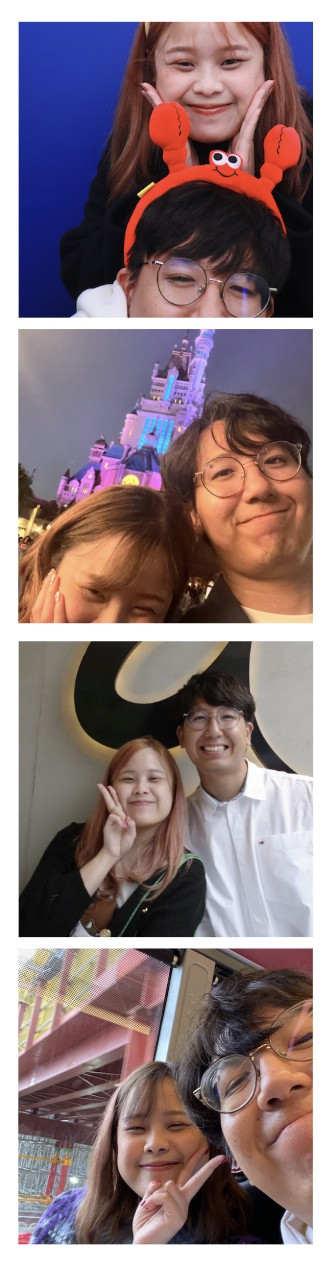
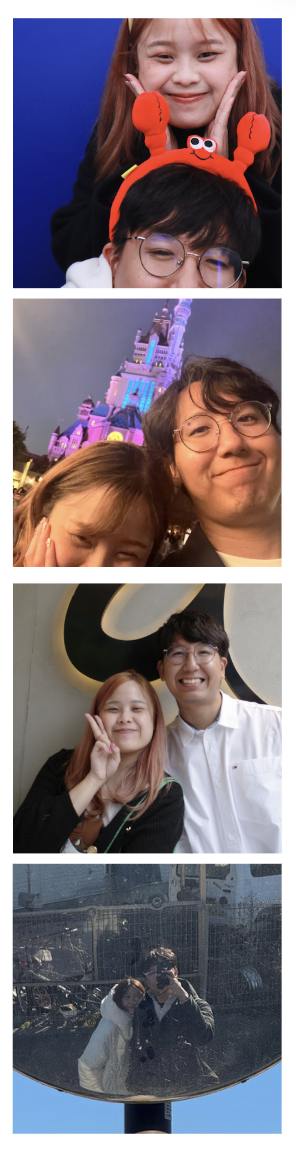
feat: update invitation page with new image assets and text adjustments
Replaced image links with versioned URLs for cache busting. Adjusted text for item cards, including updated rarity descriptions and flavor text. Enhanced styling for the invitation section with added margins for better spacing.

diff --git a/site/index.html b/site/index.html
@@ -22,17 +22,17 @@
   <section class="panel">
     <h1 class="script names">Oum &amp; Non</h1>
     <p class="line">ARE GETTING MARRIED</p>
-    <p class="script lead">and you are</p>
-
+    
     <div class="envelope" title="Open it again">
-      <img class="env-back" src="assets/landing/envelope-back.png" alt="" width="1219" height="1476">
-      <a class="pop pop--strip1" href="assets/landing/photo-strip-1.jpg" data-item="strip1" aria-label="View the first photo strip" style="--rot:-12deg;--ox:90%;--oy:45%;--delay:0ms"><img src="assets/landing/photo-strip-1.jpg" alt="" width="332" height="1268"></a>
-      <a class="pop pop--strip2" href="assets/landing/photo-strip-2.jpg" data-item="strip2" aria-label="View the second photo strip" style="--rot:12deg;--ox:-90%;--oy:45%;--delay:90ms"><img src="assets/landing/photo-strip-2.jpg" alt="" width="332" height="1268"></a>
-      <a class="pop pop--cats"   href="assets/landing/cat_heads.png"     data-item="cats"   aria-label="View the cats" style="--rot:5deg;--ox:0%;--oy:60%;--delay:200ms"><img src="assets/landing/cat_heads.png" alt="" width="1040" height="952"></a>
-      <a class="pop pop--ticket" href="assets/landing/ticket.png"        data-item="ticket" aria-label="View the ticket" style="--rot:-4deg;--ox:0%;--oy:70%;--delay:330ms"><img src="assets/landing/ticket.png" alt="" width="1241" height="1750"></a>
-      <img class="env-front" src="assets/landing/envelope-front.png" alt="" width="1219" height="1476">
+      <img class="env-back" src="assets/landing/envelope-back.png?t=1233" alt="" width="1219" height="1476">
+      <a class="pop pop--strip1" href="assets/landing/photo-strip-1.jpg?t=1233" data-item="strip1" aria-label="View the first photo strip" style="--rot:-12deg;--ox:90%;--oy:45%;--delay:0ms"><img src="assets/landing/photo-strip-1.jpg" alt="" width="332" height="1268"></a>
+      <a class="pop pop--strip2" href="assets/landing/photo-strip-2.jpg?t=1233" data-item="strip2" aria-label="View the second photo strip" style="--rot:12deg;--ox:-90%;--oy:45%;--delay:90ms"><img src="assets/landing/photo-strip-2.jpg" alt="" width="332" height="1268"></a>
+      <a class="pop pop--cats"   href="assets/landing/cat_heads.png?t=1233"     data-item="cats"   aria-label="View the cats" style="--rot:5deg;--ox:0%;--oy:60%;--delay:200ms"><img src="assets/landing/cat_heads.png" alt="" width="1040" height="952"></a>
+      <a class="pop pop--ticket" href="assets/landing/ticket.png?t=1233"        data-item="ticket" aria-label="View the ticket" style="--rot:-4deg;--ox:0%;--oy:70%;--delay:330ms"><img src="assets/landing/ticket.png" alt="" width="1241" height="1750"></a>
+      <img class="env-front" src="assets/landing/envelope-front.png?t=1233" alt="" width="1219" height="1476">
     </div>
-
+    
+    <p class="script lead">and you are</p>
     <h2 class="script invited">invited!!<svg class="underline" viewBox="0 0 200 12" preserveAspectRatio="none" aria-hidden="true"><path d="M3 8 C 40 2, 80 11, 120 6 S 180 3, 197 7" pathLength="1"/></svg></h2>
     <a class="btn" href="invitation.html">Open invitation</a>
     <p class="tag">#happyoumhappynon</p>
@@ -49,46 +49,41 @@
          off the cards too. -->
     <aside class="item-card item-card--rare" data-item="strip1" hidden>
       <h3 class="item-name">Photo Strip I</h3>
-      <p class="item-rarity"><span aria-hidden="true">✦</span> Rare · Photo booth</p>
       <ul class="item-stats">
         <li>+4 Snapshots of us</li>
         <li>Oversea trip together</li>
-        <li>Seoul, Hongkong, Fukuoka</li>
+        <li>Seoul, Hongkong, Fukuoka, Tokyo</li>
       </ul>
-      <p class="script item-flavour">"Let's go everywhere together."</p>
     </aside>
 
     <aside class="item-card item-card--rare" data-item="strip2" hidden>
       <h3 class="item-name">Photo Strip II</h3>
-      <p class="item-rarity"><span aria-hidden="true">✦</span> Rare · Photo booth</p>
       <ul class="item-stats">
         <li>+4 Snapshots of us</li>
         <li>Oum and her finger V pose</li>
         <li>Isoon's dump smile</li>
       </ul>
-      <p class="script item-flavour">"Sweet sweet memories."</p>
     </aside>
 
     <aside class="item-card item-card--epic" data-item="cats" hidden>
       <h3 class="item-name">Hedhorm &amp; Ponzu</h3>
-      <p class="item-rarity"><span aria-hidden="true">✦</span> Epic · Companions</p>
+      <p class="item-rarity"><span aria-hidden="true">✦</span> AKA · คนสวย &amp; อ้วน</p>
       <ul class="item-stats">
         <li>Partner in-crime</li>
         <li>Double Trouble</li>
-        <li>Bless you guys with luv</li>
+        <li>Enjoy eating</li>
       </ul>
-      <p class="script item-flavour">"Placeholder flavour text for the cats."</p>
+      <p class="script item-flavour">"Bless you guys with luv"</p>
     </aside>
 
     <aside class="item-card item-card--legendary" data-item="ticket" hidden>
       <h3 class="item-name">Wedding Ticket</h3>
-      <p class="item-rarity"><span aria-hidden="true">✦</span> Legendary · Unique</p>
       <ul class="item-stats">
-        <li>+1 Seat at the party</li>
+        <li>Seat available for u</li>
         <li>Redeem on the big day</li>
-        <li>Binds when picked up</li>
+        <li>Victoria (JA)'s design</li>
       </ul>
-      <p class="script item-flavour">"Placeholder flavour text for the ticket."</p>
+      <p class="script item-flavour">"Appreciate your attending."</p>
     </aside>
   </div>
 </dialog>

diff --git a/site/landing.css b/site/landing.css
@@ -43,6 +43,8 @@
 
 .invited{
   position:relative;
+  margin-top: 10px;
+  margin-bottom: 10px;
   font-size: min(clamp(56px, 6.5vw, 96px), 9svh);
 }
 
